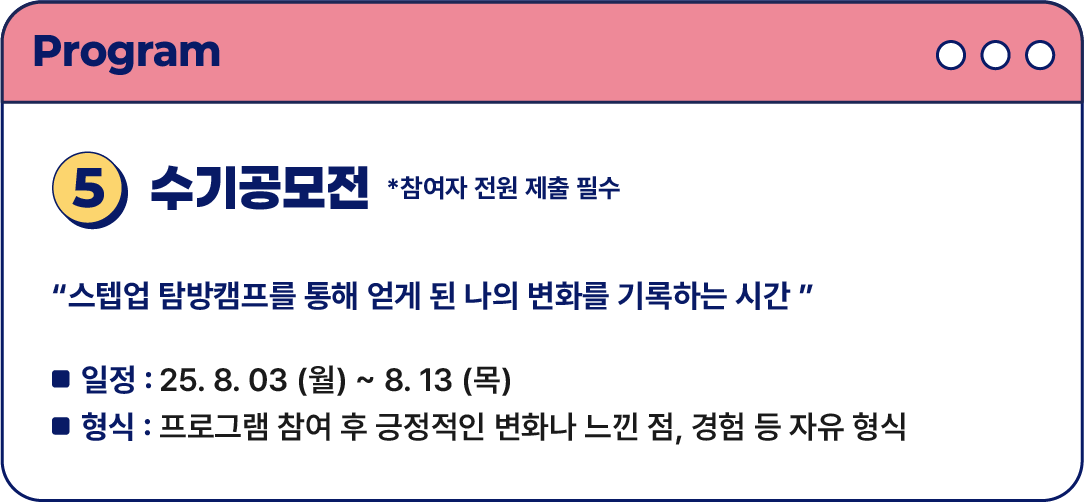
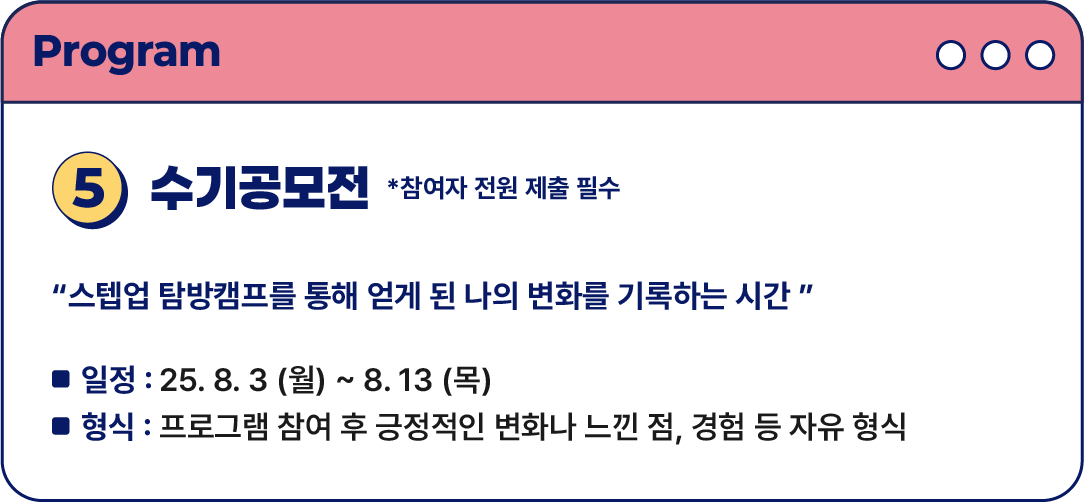
redeploy: sync index, apply, and p-5 image updates
Deploy latest content changes for index/apply pages and updated p-5 image asset.

Changed region(s): [[0.2131, 0.7157, 0.4871, 0.8052]]

diff --git a/index.html b/index.html
@@ -43,28 +43,17 @@
 
                     <!-- pc 카카오톡 상담 버튼 -->
                     <div class="kakaoChatPc">
-                        <a href="javascript:void kakaoChatStart()">
+                        <a href="https://pf.kakao.com/_xlivjX/chat" target="_blank" rel="noopener noreferrer">
                             <img src="img/kakao.png">
                         </a>
                     </div>
 
                     <!-- 모바일 카카오톡 상담 버튼 -->
                     <div class="kakaoChatMob">
-                        <a href="javascript:void kakaoChatStart()">
+                        <a href="https://pf.kakao.com/_xlivjX/chat" target="_blank" rel="noopener noreferrer">
                             <img src="img/kakao.png">
                         </a>
                     </div>
-
-                    <!-- 카카오톡 채널 스크립트 -->
-                    <script src="//developers.kakao.com/sdk/js/kakao.min.js"></script>
-                    <script type='text/javascript'>
-                        Kakao.init('747b80328bbb0153c0224b083b311270'); // 사용할 앱의 JavaScript키를 입력해 주세요.
-                        function kakaoChatStart() {
-                            Kakao.Channel.chat({
-                                channelPublicId: '_xlivjX' // 카카오톡 채널 홈 URL에 명시된 ID를 입력합니다.(1단계에서 복사한 값)
-                            });
-                        }
-                    </script>
                     <script>
                         window.addEventListener('scroll', function () {
                             const target = document.querySelector('footer');
@@ -107,7 +96,7 @@
                                         <p>• 모집 일정</p>
                                     </div>
                                     <div class="date">
-                                        <p>5. 8 (금) ~ 5. 25 (일)</p>
+                                        <p>5. 8 (금) ~ 5. 25 (월)</p>
                                     </div>
                                 </li>
                                 <li>
@@ -604,7 +593,7 @@
                                                             <p>모집 일정</p>
                                                         </div>
                                                         <div class="info-date">
-                                                            <p>5. 8(금) ~ 25(월)</p>
+                                                            <p>5. 8 (금) ~ 5. 25 (월)</p>
                                                         </div>
                                                     </li>
                                                     <li>
@@ -612,7 +601,7 @@
                                                             <p>면접대상자 선정안내</p>
                                                         </div>
                                                         <div class="info-date">
-                                                            <p>5. 26(화) 13:00</p>
+                                                            <p>5. 26 (화) 13:00</p>
                                                         </div>
                                                     </li>
                                                     <li>
@@ -620,7 +609,7 @@
                                                             <p>온라인면접</p>
                                                         </div>
                                                         <div class="info-date">
-                                                            <p>5. 27(수) ~ 29(금)</p>
+                                                            <p>5. 27 (수) ~ 5. 29 (금)</p>
                                                         </div>
                                                     </li>
                                                     <li>
@@ -628,7 +617,7 @@
                                                             <p>최종대상자 선정</p>
                                                         </div>
                                                         <div class="info-date">
-                                                            <p>6. 1(월)</p>
+                                                            <p>6. 1 (월)</p>
                                                         </div>
                                                     </li>
                                                     <li>
@@ -636,7 +625,7 @@
                                                             <p>온라인 오리엔테이션</p>
                                                         </div>
                                                         <div class="info-date">
-                                                            <p>6. 8(월)</p>
+                                                            <p>6. 8 (월)</p>
                                                         </div>
                                                     </li>
                                                 </ul>
@@ -787,7 +776,7 @@
                                         </li>
                                         <li>
                                             <p>Q. 세부 프로그램은 어떤 것이 있나요?</p>
-                                            <p>A. 공기업 준비를 위한 특강, 공모전 대비를 위한 콘텐츠 특강, MBTI를 관계형성 특강 등이 있습니다.</p>
+                                            <p>A. 공기업 준비를 위한 특강, 공모전 대비를 위한 콘텐츠 특강, MBTI를 활용한 관계형성 특강 등이 있습니다.</p>
                                         </li>
                                     </ul>
                                 </div>
@@ -927,10 +916,6 @@
                     </li>
                 </ul>
                 <ul class="info-bot">
-                    <li>
-                        <p>메일</p>
-                        <p>office@onandme.com</p>
-                    </li>
                     <li>
                         <span>@2026 STEP-UP 탐방캠프 3기</span>
                     </li>

diff --git a/apply.html b/apply.html
@@ -190,7 +190,7 @@
                                     <tr><td>(서울) 에르메스코리아(유)</td><td>7/15 09:00</td></tr>
                                     <tr><td>(대전) 한국가스기술공사</td><td>7/16 14:00</td></tr>
                                     <tr><td>(경남) 한국산업기술시험원</td><td>7/20 14:00</td></tr>
-                                    <tr><td>(전북) 한국가스기술공사</td><td>7/21 14:00</td></tr>
+                                    <tr><td>(전북) 한국국토정보공사</td><td>7/21 14:00</td></tr>
                                     <tr><td>(대전) 한국특허전략개발원</td><td>7/23 14:00</td></tr>
                                     <tr><td>(인천) 인천국제공항공사</td><td>7/24 14:00</td></tr>
                                     <tr><td>(서울) 한국수출입은행</td><td>8/4 09:30</td></tr>
@@ -270,7 +270,7 @@
                         <textarea id="essay2" name="essay2" rows="6" required></textarea>
                     </div>
                     <div class="field">
-                        <label for="essay3">3) 희망 기업과 알고 싶은 정보 및 이유스텝업 탐방캠프’를 통해 방문을 희망하는 기업을 기입해 주시고, 해당 기업을 통해 알고 싶은 정보와 그 이유를 기입해 주세요. <em>*</em></label>
+                        <label for="essay3">3) 스텝업 탐방캠프’를 통해 방문을 희망하는 기업을 기입해 주시고, 해당 기업을 통해 알고 싶은 정보와 그 이유를 기입해 주세요. <em>*</em></label>
                         <textarea id="essay3" name="essay3" rows="6" required></textarea>
                     </div>
                 </div>
@@ -312,7 +312,7 @@
             "(서울) 에르메스코리아(유)",
             "(대전) 한국가스기술공사",
             "(경남) 한국산업기술시험원",
-            "(전북) 한국가스기술공사",
+            "(전북) 한국국토정보공사",
             "(대전) 한국특허전략개발원",
             "(인천) 인천국제공항공사",
             "(서울) 한국수출입은행",
